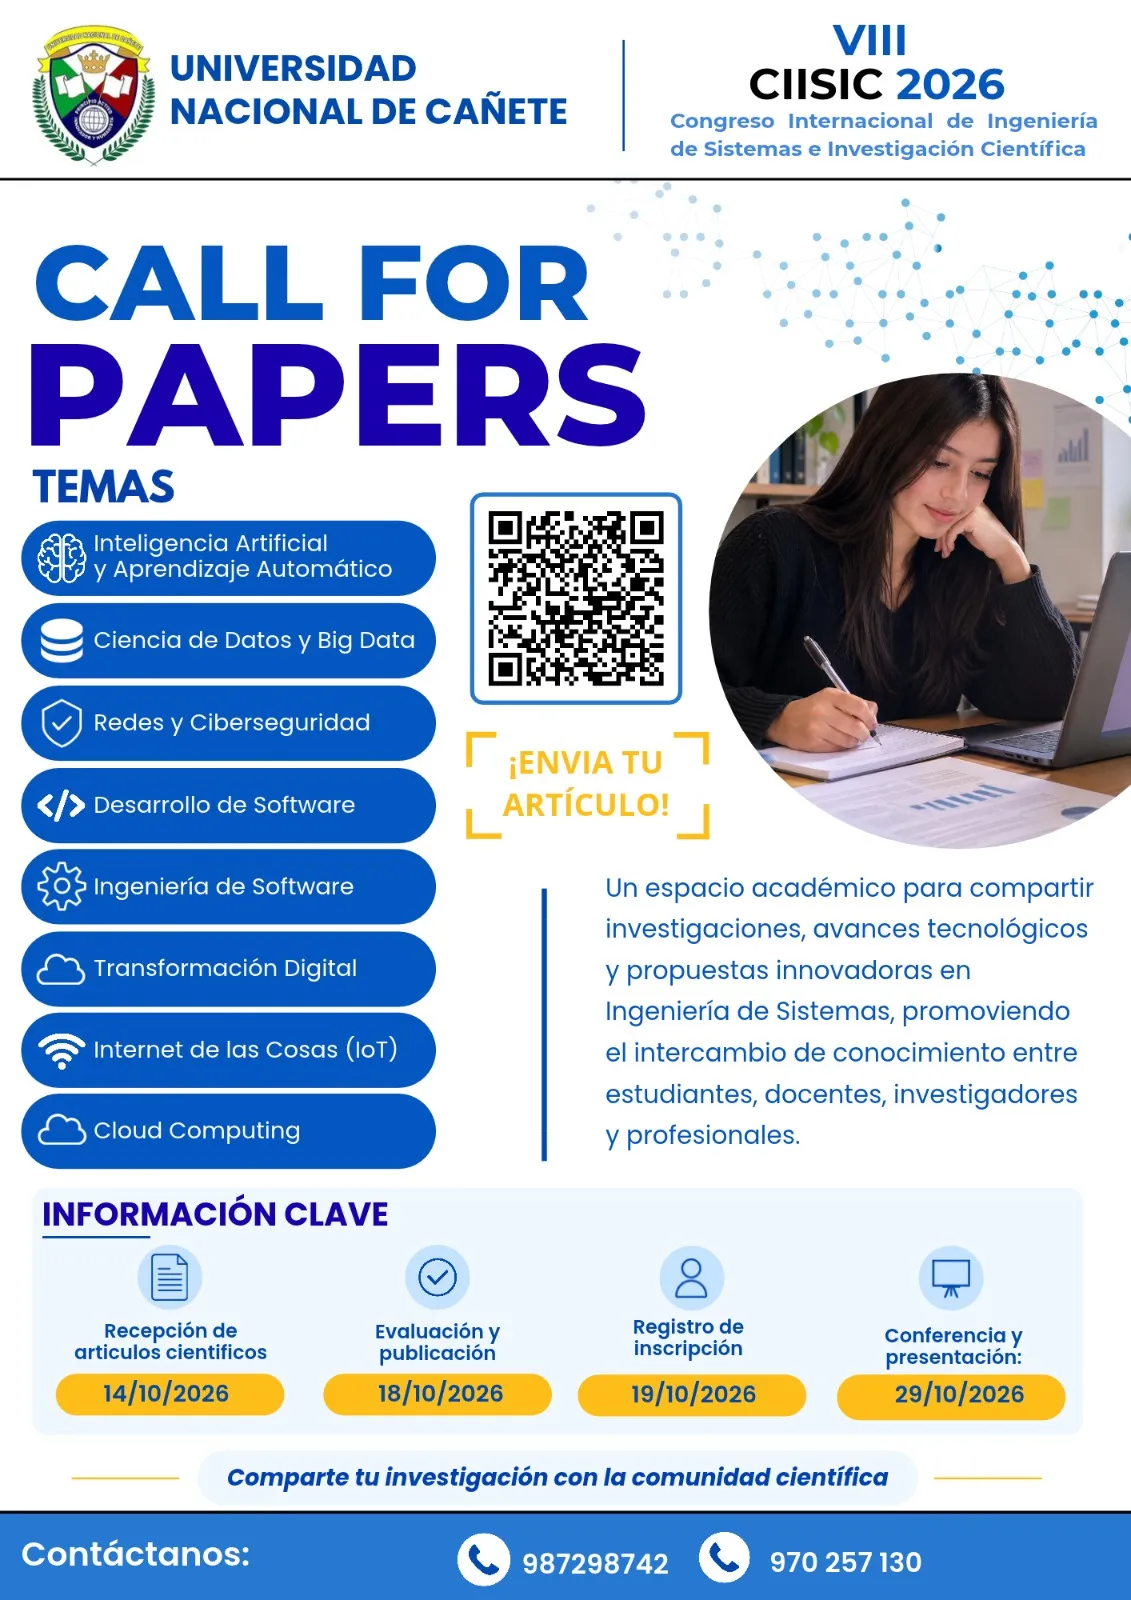
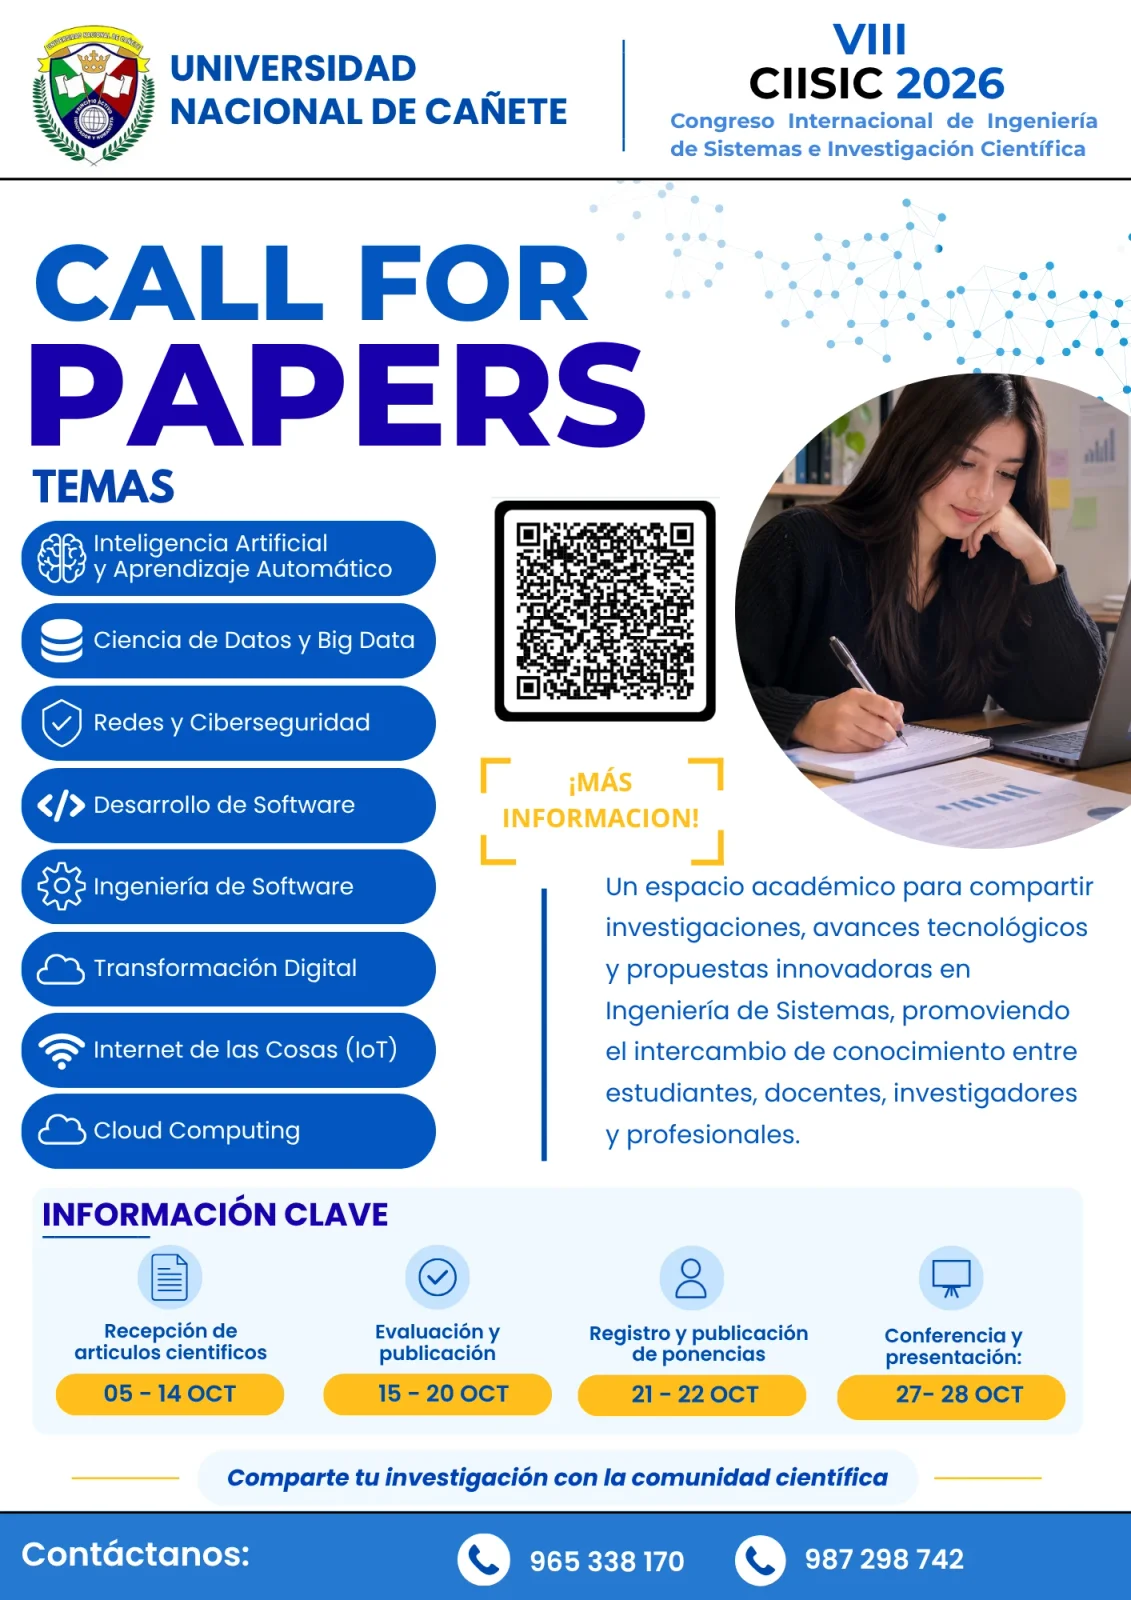
feat(papers): afiche 2026 actualizado y cronograma con fechas
- Nuevo afiche del Call for Papers (WebP 1131×1600, misma ruta).
- Extensión de los artículos: de 8 a 10 páginas.
- Cronograma: apertura 05 oct, recepción 05-14, evaluación 15-20,
  notificación 21-22 y presentación 27-28 de octubre; el estado de
  cada etapa se calcula en hora de Lima.
- La nota bajo los botones indica las fechas de recepción.

diff --git a/app/pages/papers/index.vue b/app/pages/papers/index.vue
@@ -36,7 +36,7 @@
               <div class="text-gray-300 text-lg leading-relaxed space-y-4">
                 <p>
 
-                  La conferencia VIII CIISIC invita a la presentación de artículos de investigación originales, redactados en  español o inglés, con una extensión de <strong class="text-white">6 a 8 páginas</strong>,
+                  La conferencia VIII CIISIC invita a la presentación de artículos de investigación originales, redactados en  español o inglés, con una extensión de <strong class="text-white">8 a 10 páginas</strong>,
                   considerando tanto el resumen como las referencias bibliográficas.
                 </p>
                 <p>
@@ -59,7 +59,7 @@
                   </a>
                   <NuxtLink to="/papers/registro" class="btn-primary rounded-lg px-4 py-2.5 text-center text-sm font-semibold sm:px-6 sm:py-3 sm:text-base">Registrar paper</NuxtLink>
                 </div>
-                <p class="text-sm text-primary-300">Haz clic en Registrar paper para enviar tu artículo. Las fechas de evaluación se anunciarán próximamente.</p>
+                <p class="text-sm text-primary-300">Haz clic en Registrar paper para enviar tu artículo. La recepción de papers es del 05 al 14 de octubre.</p>
               </div>
             </div>
           </div>
@@ -209,42 +209,42 @@ const thematicAxes = [
   { title: 'Educación en Ingeniería y Tecnología', icon: 'heroicons:academic-cap', desc: 'Innovación educativa y formación en áreas STEM.' },
 ]
 
-// Línea de tiempo
+// Línea de tiempo (fechas en hora de Lima, UTC-5)
 const timelineEvents = [
   {
-    title: 'Apertura de convocatoria',
-    date: 'Por confirmar',
+    title: 'Apertura',
+    date: '05 de octubre',
     icon: 'heroicons:calendar-days',
-    startDate: '',
-    endDate: ''
+    startDate: '2026-10-05T00:00:00-05:00',
+    endDate: '2026-10-05T23:59:59-05:00'
   },
   {
     title: 'Recepción de papers',
-    date: 'Por confirmar',
+    date: '05 - 14 de octubre',
     icon: 'heroicons:arrow-up-tray',
-    startDate: '',
-    endDate: ''
+    startDate: '2026-10-05T00:00:00-05:00',
+    endDate: '2026-10-14T23:59:59-05:00'
   },
   {
     title: 'Evaluación de papers',
-    date: 'Por confirmar',
+    date: '15 - 20 de octubre',
     icon: 'heroicons:clipboard-document-check',
-    startDate: '',
-    endDate: ''
+    startDate: '2026-10-15T00:00:00-05:00',
+    endDate: '2026-10-20T23:59:59-05:00'
   },
   {
     title: 'Notificación de aceptación',
-    date: 'Por confirmar',
+    date: '21 - 22 de octubre',
     icon: 'heroicons:envelope',
-    startDate: '',
-    endDate: ''
+    startDate: '2026-10-21T00:00:00-05:00',
+    endDate: '2026-10-22T23:59:59-05:00'
   },
   {
     title: 'Presentación de papers',
-    date: 'Por confirmar',
+    date: '27 - 28 de octubre',
     icon: 'heroicons:megaphone',
-    startDate: '',
-    endDate: ''
+    startDate: '2026-10-27T00:00:00-05:00',
+    endDate: '2026-10-28T23:59:59-05:00'
   },
 ]
 
